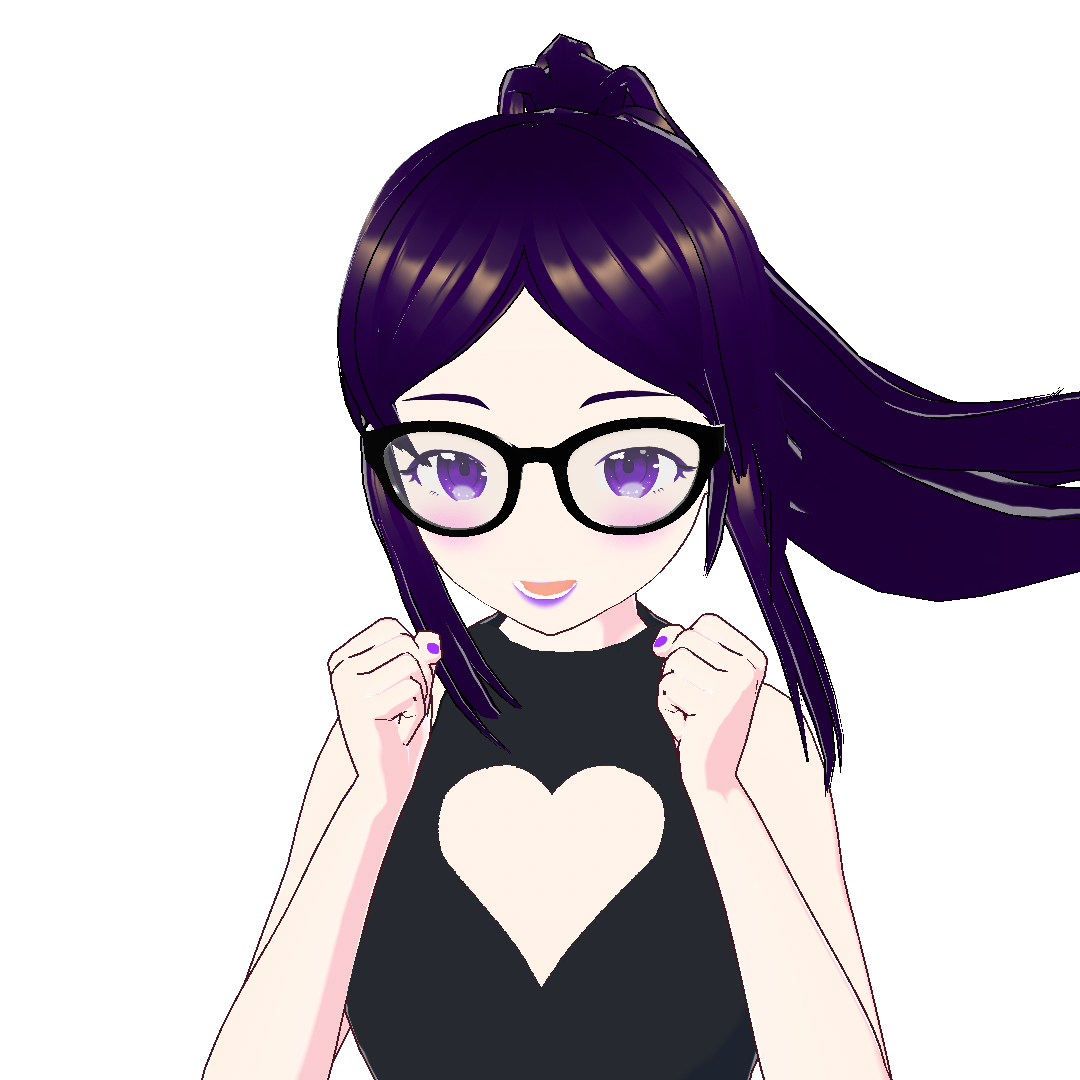
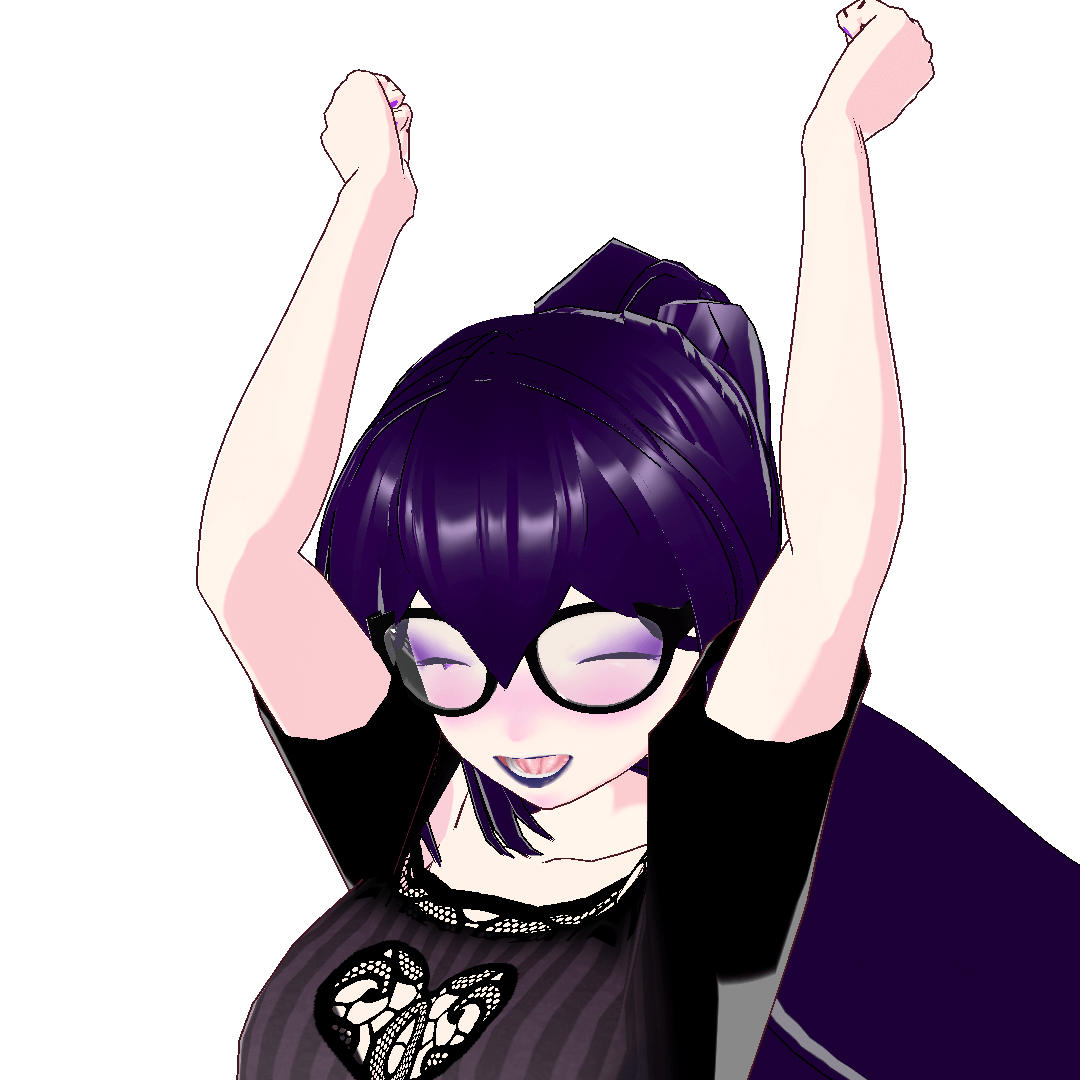
feat: emotes

diff --git a/src/assets/data/emotes.ts b/src/assets/data/emotes.ts
@@ -70,6 +70,10 @@ export const emotes: Emote[] = [
     name: 'Hug',
   },
   {
+    fileName: 'NaomiHuh.png',
+    name: 'Huh',
+  },
+  {
     fileName: 'NaomiKiss.png',
     name: 'Kiss',
   },
@@ -80,6 +84,10 @@ export const emotes: Emote[] = [
   {
     fileName: 'NaomiNope.gif',
     name: 'Nope',
+  },
+  {
+    fileName: 'NaomiNya.png',
+    name: 'Nya',
   },
   {
     fileName: 'NaomiPat.png',
@@ -170,20 +178,16 @@ export const emotes: Emote[] = [
     name: 'Weary',
   },
   {
-    fileName: 'NaomiWhat.png',
-    name: 'What',
-  },
-  {
     fileName: 'NaomiWink.png',
     name: 'Wink',
   },
   {
-    fileName: 'NaomiWork.png',
-    name: 'Work',
+    fileName: 'NaomiWoah.png',
+    name: 'Woah',
   },
   {
-    fileName: 'NaomiWow.png',
-    name: 'Wow',
+    fileName: 'NaomiWork.png',
+    name: 'Work',
   },
   {
     fileName: 'NaomiYawn.png',
